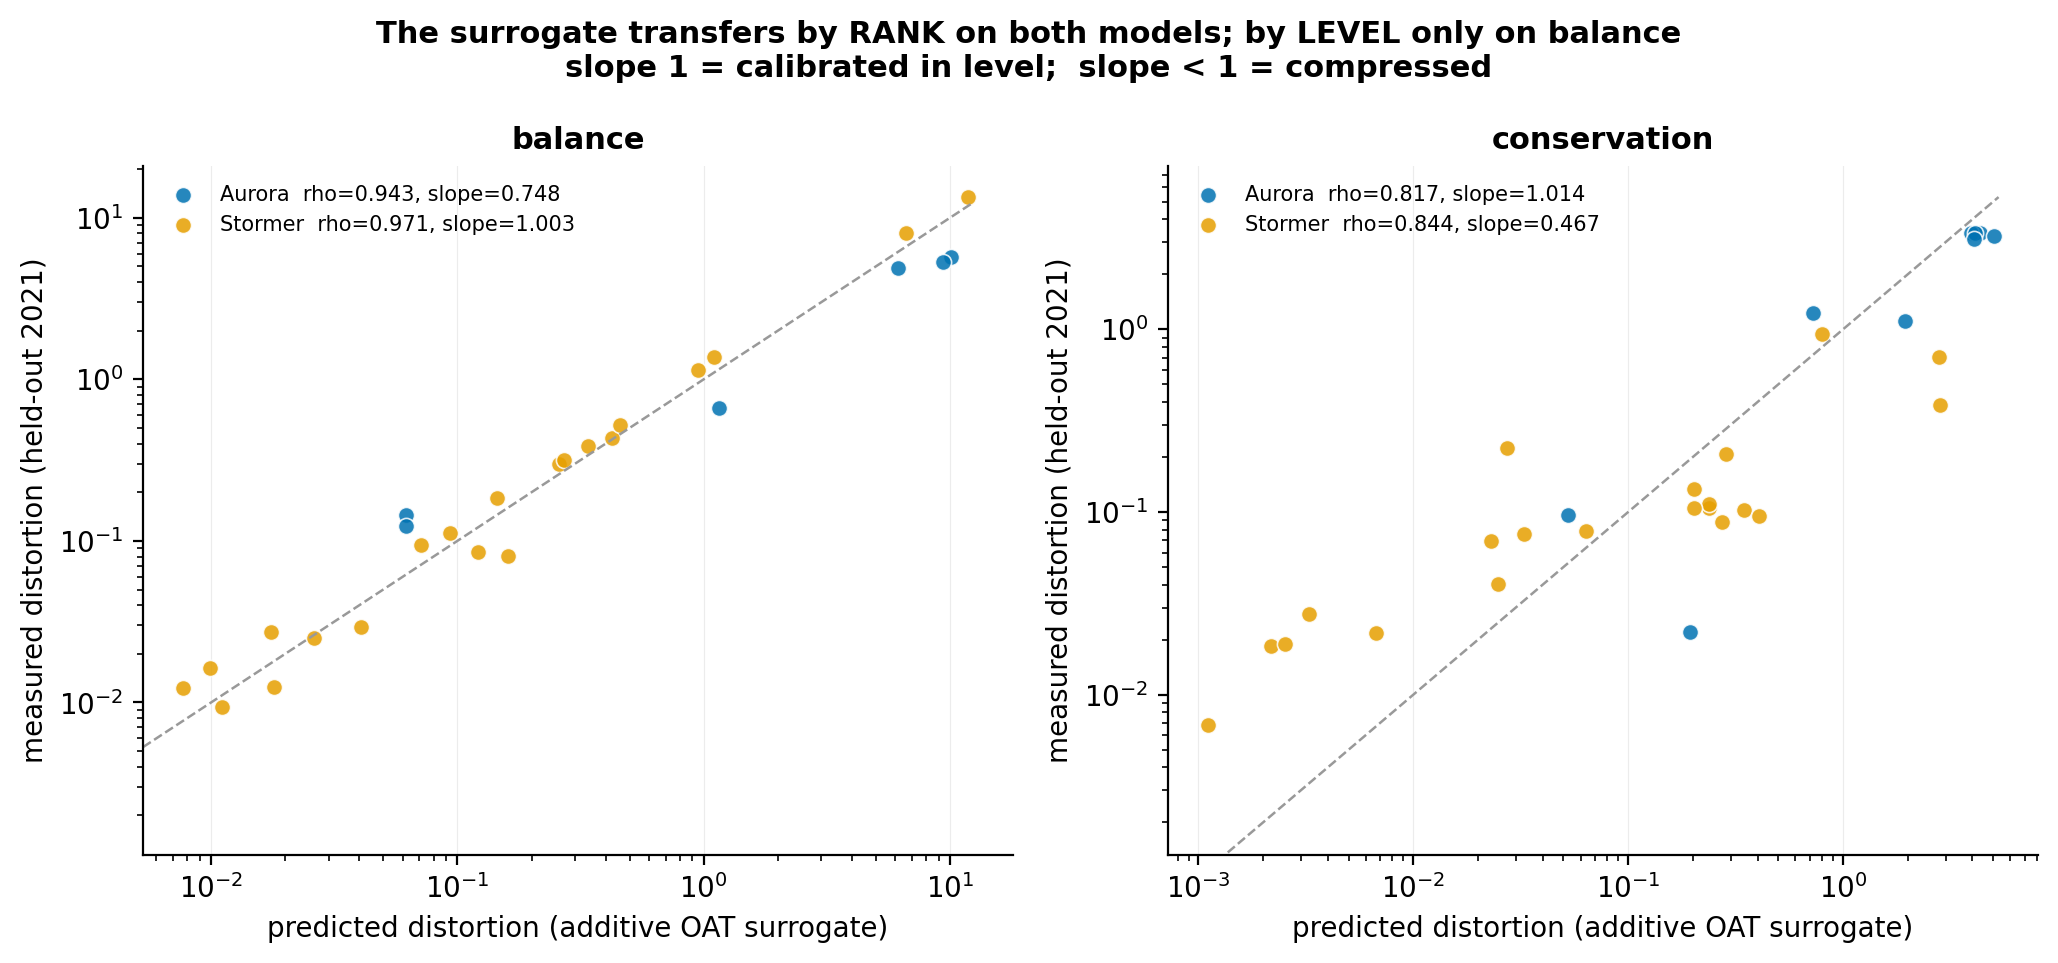
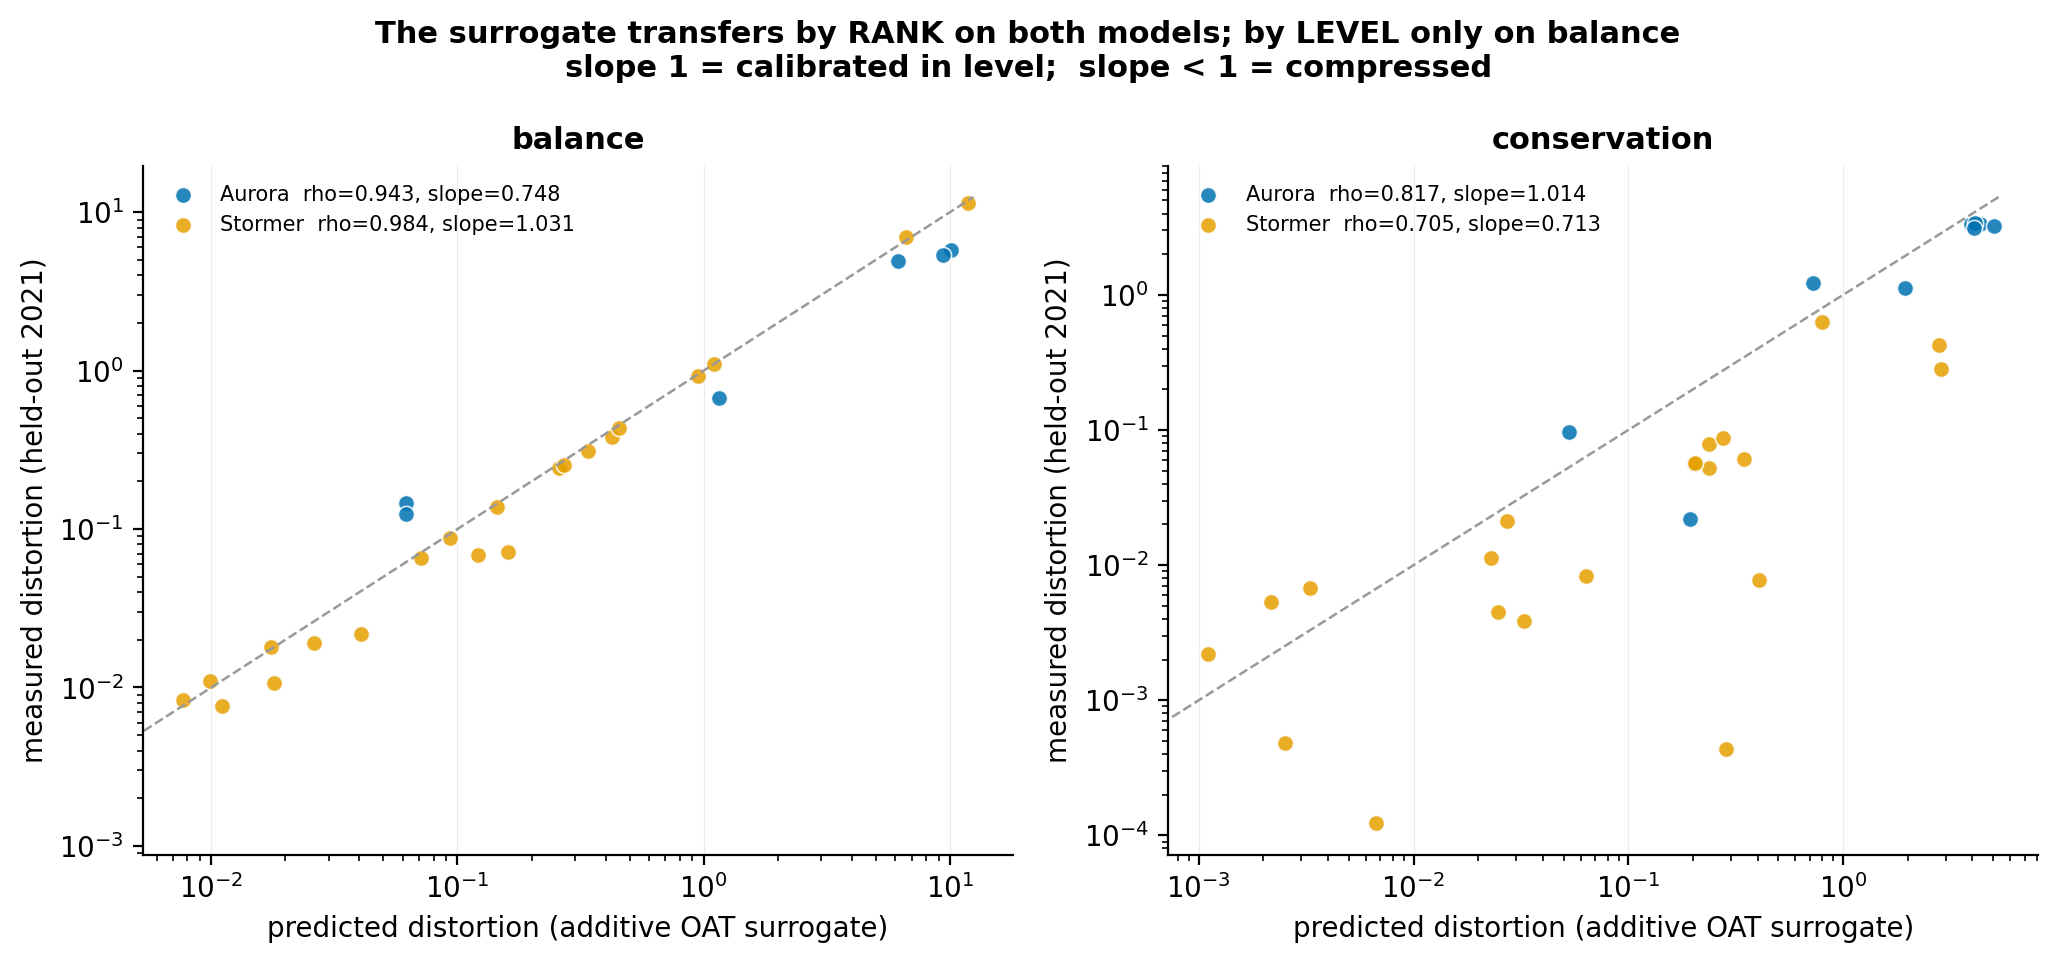
[Stormer] Added n47 harness results and adaln probe outputs

diff --git a/Stormer_Experiments/run_stormer_damage_removed.py b/Stormer_Experiments/run_stormer_damage_removed.py
@@ -17,9 +17,9 @@ REMOVED_TAGS = ["W8A8_knee", "W8A8_span1", "W8A8_rmse_span1",
 def main(argv=None):
     ap = argparse.ArgumentParser(description=__doc__.splitlines()[0],
                                  formatter_class=argparse.RawDescriptionHelpFormatter)
-    ap.add_argument("--pt", default=os.path.join("harness_results_2021_stormer",
+    ap.add_argument("--pt", default=os.path.join("harness_results_n47",
                                                  "harness_results.pt"))
-    ap.add_argument("--outdir", default="harness_results_2021_stormer")
+    ap.add_argument("--outdir", default="harness_results_n47")
     ap.add_argument("--lead", type=int, default=120)
     ap.add_argument("--n-boot", type=int, default=4000, dest="n_boot")
     a = ap.parse_args(argv)

diff --git a/Stormer_Experiments/run_stormer_lead_robustness.py b/Stormer_Experiments/run_stormer_lead_robustness.py
@@ -29,9 +29,9 @@ def _write(path, fields, rows, note=None):
 def main(argv=None):
     ap = argparse.ArgumentParser(description=__doc__.splitlines()[0],
                                  formatter_class=argparse.RawDescriptionHelpFormatter)
-    ap.add_argument("--pt", default=os.path.join("harness_results_2021_stormer",
+    ap.add_argument("--pt", default=os.path.join("harness_results_n47",
                                                  "harness_results.pt"))
-    ap.add_argument("--outdir", default="harness_results_2021_stormer")
+    ap.add_argument("--outdir", default="harness_results_n47")
     a = ap.parse_args(argv)
 
     pt = unwrap_store(torch.load(a.pt, map_location="cpu", weights_only=False))

diff --git a/Stormer_Experiments/run_stormer_stats.py b/Stormer_Experiments/run_stormer_stats.py
@@ -39,9 +39,9 @@ def _write(path, fields, rows):
 def main(argv=None):
     ap = argparse.ArgumentParser(description=__doc__,
                                  formatter_class=argparse.RawDescriptionHelpFormatter)
-    ap.add_argument("--pt", default=os.path.join("harness_results_2021_stormer",
+    ap.add_argument("--pt", default=os.path.join("harness_results_n47",
                                                  "harness_results.pt"))
-    ap.add_argument("--outdir", default="harness_results_2021_stormer")
+    ap.add_argument("--outdir", default="harness_results_n47")
     ap.add_argument("--lead", type=int, default=120)
     a = ap.parse_args(argv)
 
